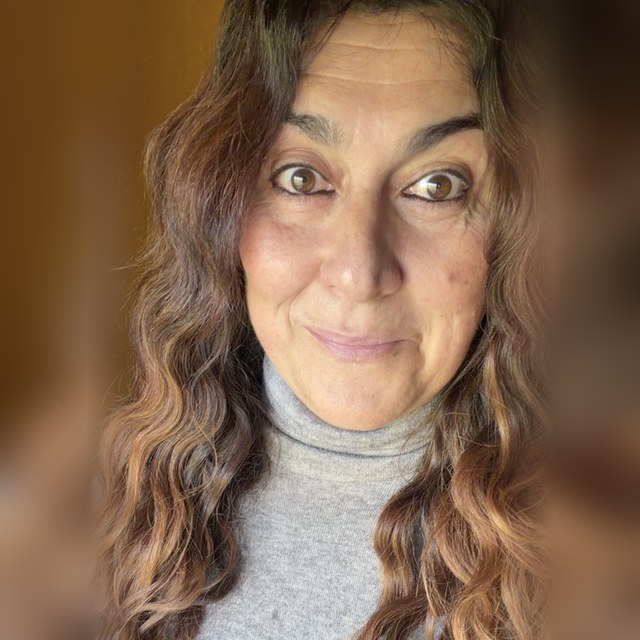
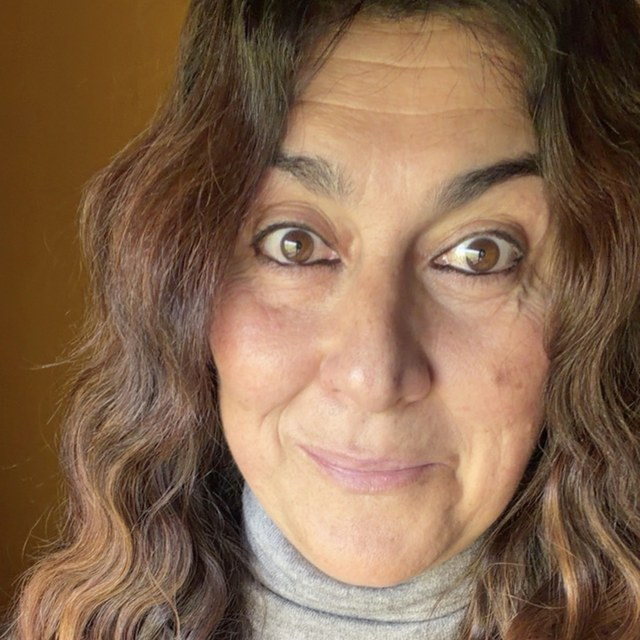
Home (anteprima): foto nel cerchio con lo sfondo naturale
Claude-Session: https://claude.ai/code/session_0126h1X9GjiojckHns4scPGL

diff --git a/static/css/style.css b/static/css/style.css
@@ -1157,6 +1157,6 @@ section.block.vs-list{padding-block:clamp(18px,3.5vh,36px) 72px}
   .h1-cta{left:calc(var(--ab-off,0px) + var(--abitalo-w, 6.2rem) + 18px)}
 }
 /* Home: la foto di Dalia nel cerchio al posto del logo grande; il logo resta (più grande) nella barra in alto */
-.hero-photo{aspect-ratio:1;object-fit:cover;object-position:50% 0;border-radius:50%;border:3px solid var(--gold);box-shadow:0 0 0 6px color-mix(in srgb,var(--gold) 14%,transparent),0 10px 26px rgba(0,0,0,.25)}
+.hero-photo{aspect-ratio:1;object-fit:cover;object-position:50% 50%;border-radius:50%;border:3px solid var(--gold);box-shadow:0 0 0 6px color-mix(in srgb,var(--gold) 14%,transparent),0 10px 26px rgba(0,0,0,.25)}
 .brand img{width:48px;height:48px}
 .brand{font-size:1.35rem}
